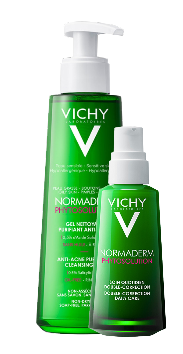
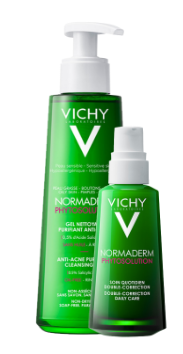
push edit images

diff --git a/product-two.html b/product-two.html
@@ -506,7 +506,7 @@
             <h1 class="text-1-1">روتين البشرة الدهنية</h1>
             <div class="overlap-group3 wow fadeInRight" data-wow-duration="1s" data-wow-delay="0.6s">
                 <img class="rectangle-28" src="images/Rectangle-2.png" />
-                <img class="img_0412" src="images/Group 40.png" />
+                <img class="img_0412" src="images/Group 40@3x.png" />
                 <!-- <img class="img_0413" src="images/img-0413-2.png" /> -->
             </div>
             <div class="vichy-normaderm wow fadeInRight" data-wow-duration="1s" data-wow-delay="0.6s">Vichy Normaderm
@@ -516,7 +516,7 @@
             <div class="row">
                 <div class="col-md-6">
                     <div class="product1-img wow fadeInRight" data-wow-duration="1s" data-wow-delay="0.6s">
-                        <img src="images/IMG_0412.png" width="112" height="223">
+                        <img src="images/IMG_0412@3x.png" width="112" height="223">
                     </div>
                 </div>
                 <div class="col-md-6">
@@ -530,7 +530,7 @@
             <div class="row">
                 <div class="col-md-6">
                     <div class="product1-img wow fadeInRight" data-wow-duration="1s" data-wow-delay="0.6s">
-                        <img src="images/img-0413-2.png" width="108" height="216">
+                        <img src="images/IMG_0413@3x.png" width="108" height="216">
                     </div>
                 </div>
                 <div class="col-md-6">

diff --git a/index.html b/index.html
@@ -373,7 +373,7 @@
                 <div class="overlap-group-container">
                     <div class="overlap-group wow fadeInLeft" data-wow-duration="1s" data-wow-delay="0.6s">
                         <img class="rectangle-4" src="images/rectangle-4.png" />
-                        <img class="img_0422" src="images/Group 39.png" />
+                        <img class="img_0422" src="images/Group 41@3x.png" />
                         <!-- <img class="img_0420" src="images/img-0420-2.png" /> -->
                         <div class="flex-col-1 wow fadeInLeft" data-wow-duration="1s" data-wow-delay="0.6s">
                             <div class="vichy-capital-soleil">Vichy Capital Soleil</div>
@@ -387,7 +387,7 @@
                     </div>
                     <div class="overlap-group3 wow fadeInRight" data-wow-duration="1s" data-wow-delay="0.6s">
                         <img class="rectangle-2" src="images/Rectangle-2.png" />
-                        <img class="img_0412" src="images/Group 99.png" />
+                        <img class="img_0412" src="images/Group 40@3x.png" />
                         <!-- <img class="img_0413" src="images/img-0413-2.png" /> -->
                         <div class="overlap-group2 wow fadeInRight" data-wow-duration="1s" data-wow-delay="0.6s">
                             <div class="rectangle-9"></div>

diff --git a/product-three.html b/product-three.html
@@ -382,7 +382,7 @@
             <div class="row">
                 <div class="col-md-6">
                     <div class="product1-img wow fadeInRight" data-wow-duration="1s" data-wow-delay="0.6s">
-                        <img src="images/IMG_0422.png" width="112" height="223">
+                        <img src="images/IMG_0422@3x.png" width="112" height="223">
                     </div>
                 </div>
                 <div class="col-md-6">
@@ -396,7 +396,7 @@
             <div class="row">
                 <div class="col-md-6">
                     <div class="product1-img wow fadeInRight" data-wow-duration="1s" data-wow-delay="0.6s">
-                        <img src="images/IMG_0420.png" width="108" height="216">
+                        <img src="images/img-0420-2.png" width="108" height="216">
                     </div>
                 </div>
                 <div class="col-md-6">
